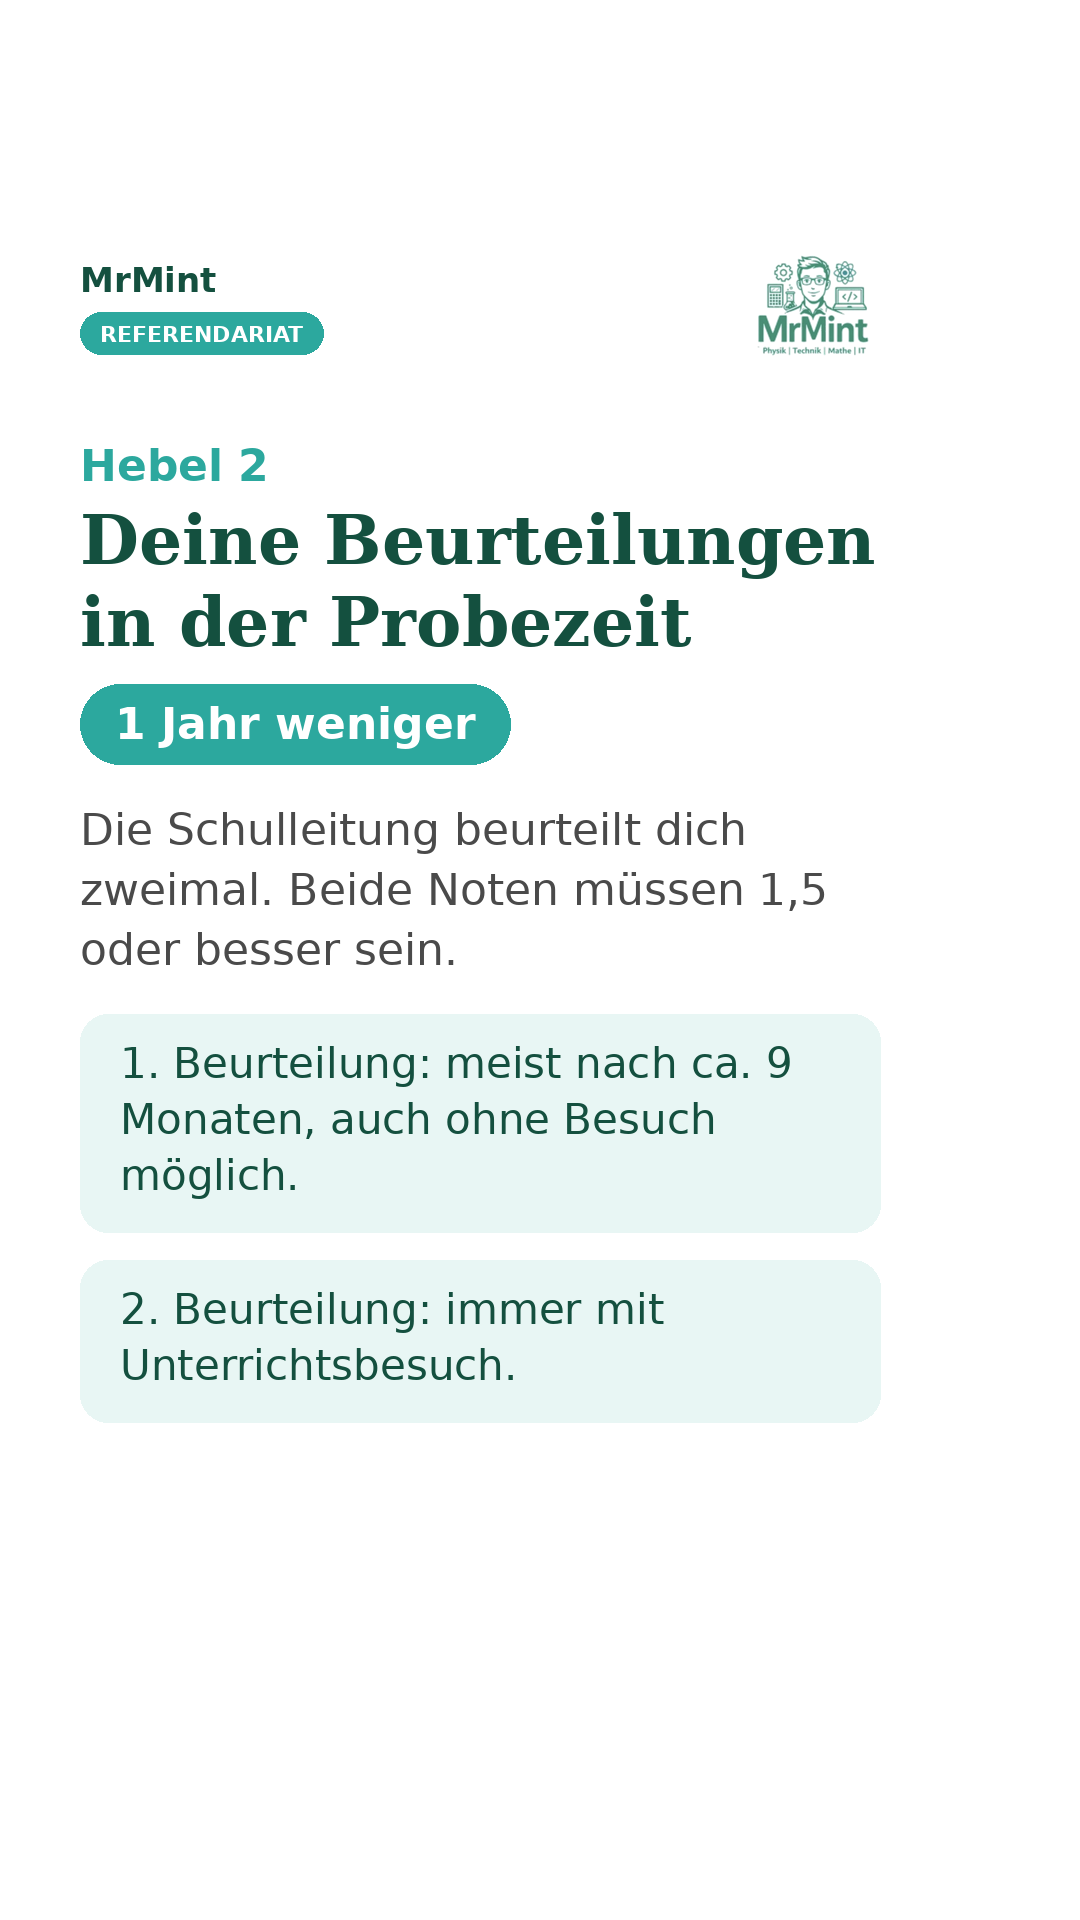
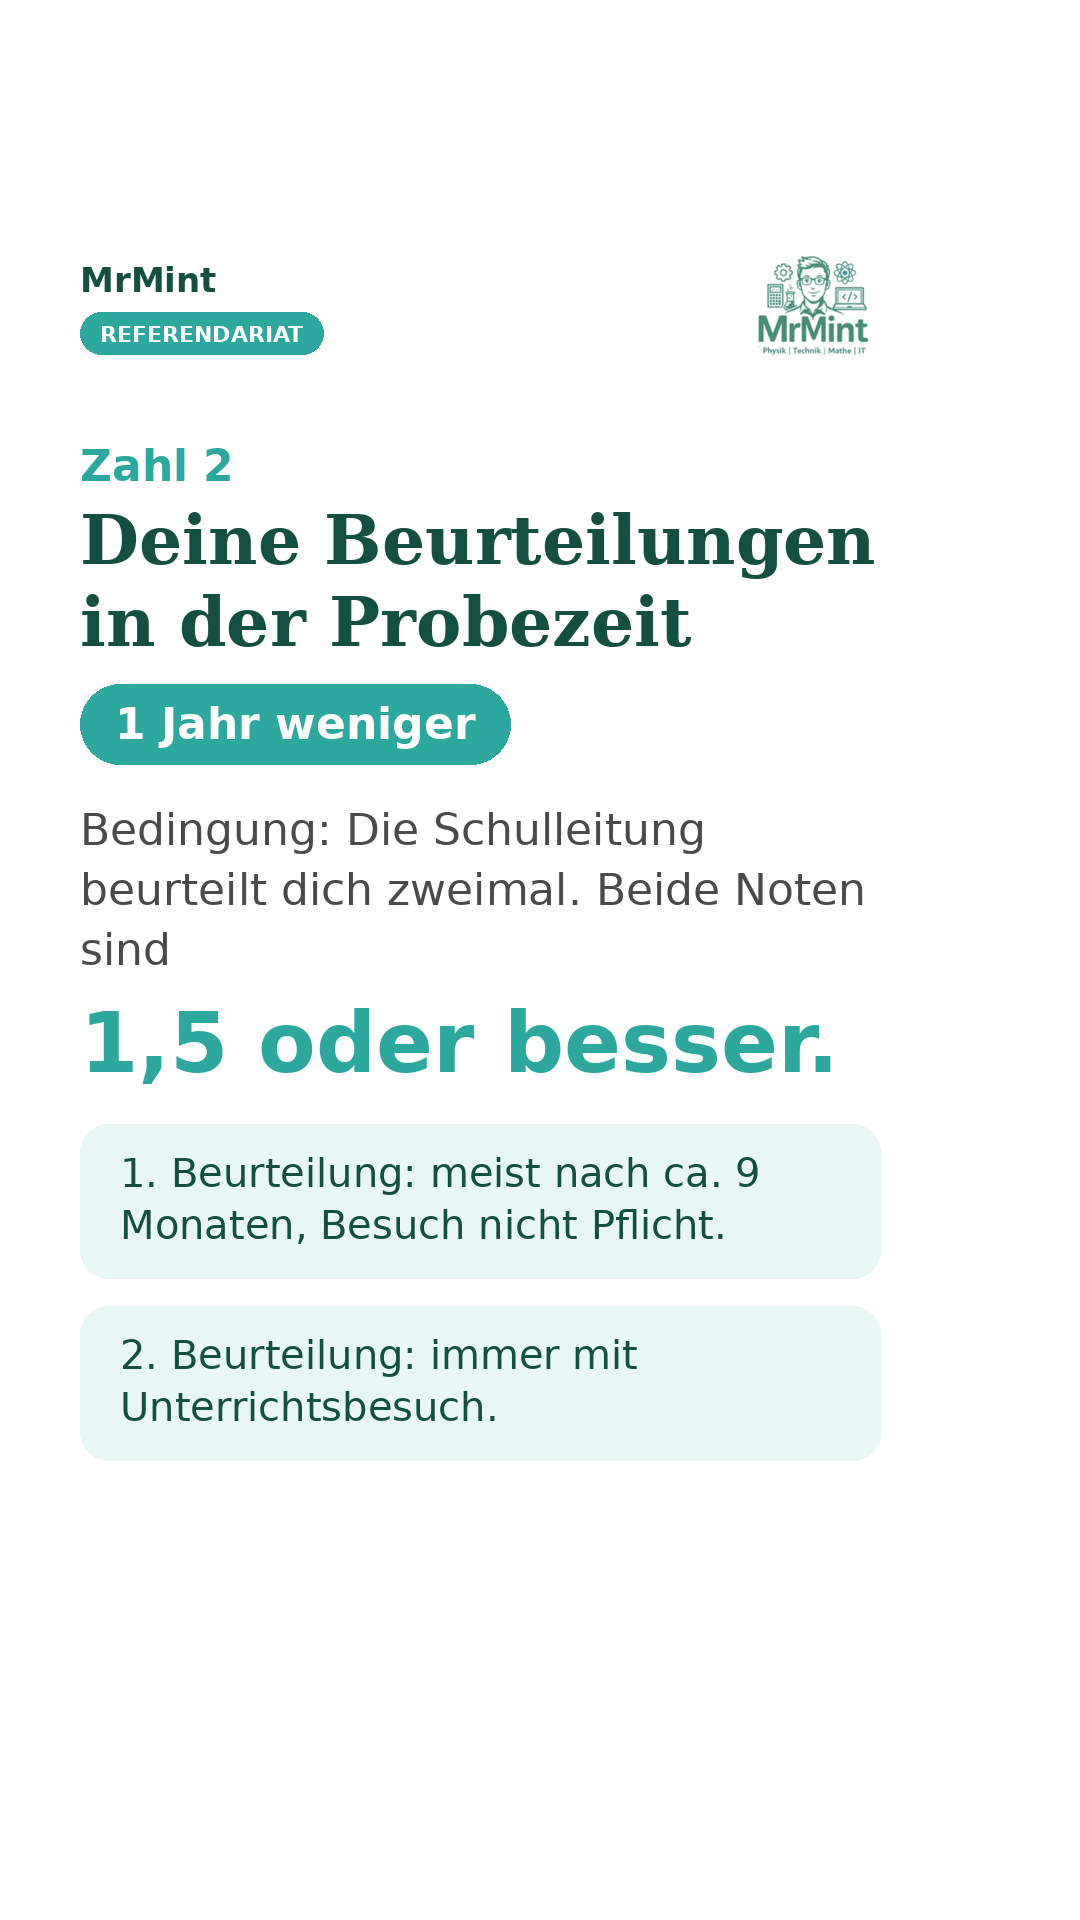
Probezeit-Post: Sprache und roten Faden überarbeitet (Zahl 1/Zahl 2, Übergang Leistungszahl)
Claude-Session: https://claude.ai/code/session_019DAG2zTU3C3u4rRbf3TWbH

Changed region(s): [[0.0611, 0.4062, 0.7944, 0.75], [0.0611, 0.2188, 0.2444, 0.25]]

diff --git a/2026-10-probezeit-leistungszahl/build.py b/2026-10-probezeit-leistungszahl/build.py
@@ -52,50 +52,51 @@ save(img, 1)
 
 # 2 Grundlagen
 img, d = base(TAG)
-y = block(d, 470, "Erst mal: Was ist die Probezeit?", sb(70), DG, 86) + 30
-y = block(d, y, "Sie startet nach dem Ref, sobald du Beamter auf Probe wirst. Danach kommt die Verbeamtung auf Lebenszeit.", r(44), GRAY, 60) + 50
+y = block(d, 470, "Kurz vorweg: die Probezeit", sb(70), DG, 86) + 30
+y = block(d, y, "Sie beginnt nach dem Ref mit der Verbeamtung auf Probe. Erst danach wirst du Beamter auf Lebenszeit.", r(44), GRAY, 60) + 50
 y = year_boxes(d, y, 3)
 y = block(d, y+10, "Normal: 3 Jahre.", b(48), DG, 66)
 y = block(d, y, "Minimum: 1 Jahr.", b(48), MINT, 66) + 20
-y = block(d, y, "Dazwischen entscheiden zwei Hebel.", r(44), GRAY, 60)
+y = block(d, y, "Wie lange es bei dir dauert, entscheiden die zwei Zahlen.", r(44), GRAY, 60)
 save(img, 2)
 
 # 3 Hebel 1
 img, d = base(TAG)
-d.text((M, 470), "Hebel 1", font=b(44), fill=MINT)
+d.text((M, 470), "Zahl 1", font=b(44), fill=MINT)
 y = block(d, 530, "Deine Ref-Note", sb(84), DG, 100) + 20
 y = minus_badge(d, y) + 10
-y = block(d, y, "Bedingung: Note der Laufbahnprüfung (2. Staatsexamen) zwischen", r(44), GRAY, 60) + 10
-d.text((M, y), "1,0 und 1,44", font=b(110), fill=MINT); y += 150
-y = block(d, y, "Diese Note steht schon fest, wenn du an deiner Schule anfängst.", b(44), DG, 60)
+y = block(d, y, "Bedingung: Die Gesamtnote deines 2. Staatsexamens ist", r(44), GRAY, 60) + 10
+d.text((M, y), "1,44 oder besser.", font=b(84), fill=MINT); y += 130
+y = block(d, y, "Die Note hast du also schon sicher, wenn du an deiner Schule anfängst.", b(44), DG, 60)
 save(img, 3)
 
 # 4 Hebel 2
 img, d = base(TAG)
-d.text((M, 440), "Hebel 2", font=b(44), fill=MINT)
+d.text((M, 440), "Zahl 2", font=b(44), fill=MINT)
 y = block(d, 500, "Deine Beurteilungen in der Probezeit", sb(68), DG, 82) + 20
 y = minus_badge(d, y) + 10
-y = block(d, y, "Die Schulleitung beurteilt dich zweimal. Beide Noten müssen 1,5 oder besser sein.", r(44), GRAY, 60) + 30
-y = card(d, y, "1. Beurteilung: meist nach ca. 9 Monaten, auch ohne Besuch möglich.")
-y = card(d, y, "2. Beurteilung: immer mit Unterrichtsbesuch.")
+y = block(d, y, "Bedingung: Die Schulleitung beurteilt dich zweimal. Beide Noten sind", r(44), GRAY, 60) + 10
+d.text((M, y), "1,5 oder besser.", font=b(84), fill=MINT); y += 130
+y = card(d, y, "1. Beurteilung: meist nach ca. 9 Monaten, Besuch nicht Pflicht.", font=r(40), lh=52)
+y = card(d, y, "2. Beurteilung: immer mit Unterrichtsbesuch.", font=r(40), lh=52)
 save(img, 4)
 
 # 5 Kombination
 img, d = base(TAG)
 y = block(d, 450, "Was heißt das für dich?", sb(70), DG, 86) + 30
-rows = [("Beide Hebel erfüllt", "1 Jahr", MINT), ("Ein Hebel erfüllt", "2 Jahre", MINT), ("Keiner erfüllt", "3 Jahre", DG)]
+rows = [("Beide Zahlen geschafft", "1 Jahr", MINT), ("Eine geschafft", "2 Jahre", MINT), ("Keine geschafft", "3 Jahre", DG)]
 for lab, val, col in rows:
     d.rounded_rectangle([M, y, RIGHT, y+124], radius=26, fill=LIGHT)
     d.text((M+40, y+62), lab, font=r(44), fill=DG, anchor="lm")
     d.text((RIGHT-40, y+62), val, font=b(52), fill=col, anchor="rm")
     y += 150
 y = block(d, y+10, "Gut zu wissen: Ist die 1. Beurteilung 1,5 oder besser, wird die 2. früher angesetzt.", r(42), GRAY, 58) + 20
-y = block(d, y, "Ein Recht darauf gibt es nicht. Das Regierungspräsidium entscheidet.", b(42), DG, 58)
+y = block(d, y, "Kein Automatismus: Am Ende entscheidet das Regierungspräsidium.", b(42), DG, 58)
 save(img, 5)
 
 # 6 Anrechnungen
 img, d = base(TAG)
-y = block(d, 470, "Was noch zählt", sb(76), DG, 92) + 20
+y = block(d, 440, "Bonus für die Probezeit", sb(66), DG, 80) + 15
 y = block(d, y, "Haben diese Zeiten deinen Weg ins Lehramt verzögert, können sie angerechnet werden:", r(42), GRAY, 58) + 30
 for t in ["Wehrdienst, Zivildienst, FSJ, FÖJ, BFD", "Elternzeit oder Pflege von Angehörigen", "Eigener Unterricht in deinen Fächern, z. B. Vertretungsvertrag"]:
     y = card(d, y, t, font=r(40), lh=52)
@@ -104,15 +105,15 @@ save(img, 6)
 
 # 7 Leistungszahl Formel
 img, d = base(TAG)
-y = block(d, 470, "Und die Leistungszahl?", sb(72), DG, 88) + 20
-y = block(d, y, "Nach dieser Zahl wird die Rangliste für die Einstellung gebildet.", r(44), GRAY, 60) + 40
+y = block(d, 450, "Die Ref-Note zählt schon vorher:", sb(68), DG, 84) + 20
+y = block(d, y, "in deiner Leistungszahl. Nach ihr wird die Rangliste für deine Einstellung gebildet.", r(44), GRAY, 60) + 40
 for fac, lab in [("10 ×", "Bachelornote"), ("+ 10 ×", "Masternote"), ("+ 20 ×", "Ref-Note")]:
     d.text((M, y), fac, font=b(70), fill=MINT)
     d.text((M+310, y+12), lab, font=b(56), fill=DG)
     y += 105
-y = block(d, y+30, "Kleiner ist besser.", b(52), MINT, 70)
-y = block(d, y, "Bestwert: 40", b(52), MINT, 70) + 30
-y = block(d, y, "Mit altem Staatsexamen: 20 × Note des ersten plus 20 × Note des zweiten Staatsexamens.", r(40), GRAY, 56)
+y = block(d, y+20, "Kleiner ist besser.", b(52), MINT, 70)
+y = block(d, y, "Bestwert: 40", b(52), MINT, 70) + 25
+y = block(d, y, "Altes Staatsexamen: beide Examensnoten je × 20.", r(40), GRAY, 56)
 save(img, 7)
 
 # 8 Beispiel
